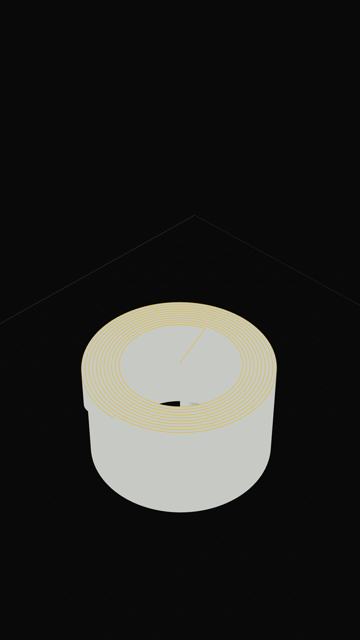
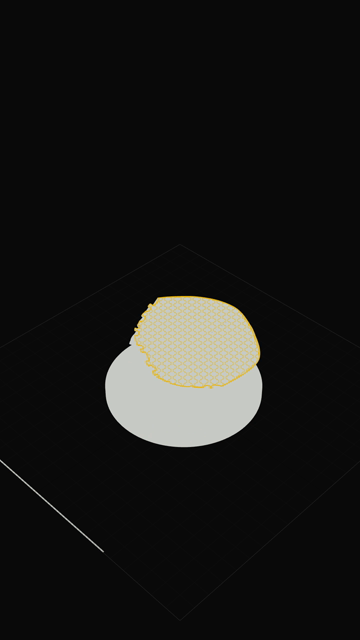
Fix five defects a real slicer file exposed
Three in the parser:

The layer count was two higher than the header claimed, because everything a
slicer emits before its first ;LAYER_CHANGE — the prime, the purge line, the
wipe — was being counted as layers of its own. That geometry is real and stays
in the IR; it now belongs to the first marked layer, so our count matches the
slicer's.

Print time came out as fourteen seconds instead of 3h 44m 46s: Orca writes
"estimated first layer printing time" immediately after the total, and the
second line was overwriting the first.

The bounding box described the bed rather than the model, because the purge
line runs the full width of the plate along the front edge. Size read
110 x 160 instead of 94 x 100, and the camera would have aimed at the bed
edge. The start block no longer contributes to the box.

Two in the renderer, both of which needed a centre-origin machine to appear:

The print stood in a corner of its own plate. The Flashforge puts 0,0 at the
middle of the bed and reports bed_origin = -110,-110; the renderer assumed a
front-left origin and ignored the field the parser was already filling in.

The print did not fit a 9:16 frame. Framing was computed from the vertical
field of view, but on a portrait canvas the horizontal one is much narrower
and is what actually binds. The camera now fits the bounding sphere against
whichever field of view is tighter, and re-fits when the aspect changes.
[…]

diff --git a/src/render/PrintScene.ts b/src/render/PrintScene.ts
@@ -66,6 +66,9 @@ const FRAGMENT_SHADER = /* glsl */ `
   }
 `;
 
+/** A little air around the print so it never touches the frame edge. */
+const FRAME_MARGIN = 1.12;
+
 export interface PrintSceneOptions {
   /** Device pixel ratio cap. Export overrides this to 1 and drives the size itself. */
   maxPixelRatio?: number;
@@ -90,6 +93,10 @@ export class PrintScene {
   /** Orbit state, kept here so export can set an exact camera without a controls dependency. */
   private orbit = { azimuth: Math.PI * 0.25, elevation: Math.PI * 0.22, distance: 400 };
   private target = new THREE.Vector3();
+  /** Radius of the sphere the framing has to keep on screen. Zero until a file is loaded. */
+  private frameRadius = 0;
+  /** True while the camera is auto-framed; a manual zoom hands control to the user. */
+  private autoFrame = true;
 
   constructor(canvas: HTMLCanvasElement, options: PrintSceneOptions = {}) {
     this.maxPixelRatio = options.maxPixelRatio ?? 2;
@@ -214,12 +221,20 @@ export class PrintScene {
   }
 
   zoomBy(factor: number): void {
+    this.autoFrame = false;
     this.orbit.distance = clamp(this.orbit.distance * factor, 20, 4000);
     this.applyCamera();
   }
 
+  /** Re-frame the print, undoing any manual zoom. */
+  frameAll(): void {
+    this.autoFrame = true;
+    this.fitCamera();
+  }
+
   /** Exact camera placement, for deterministic export and for saved viewpoints. */
   setCamera(azimuth: number, elevation: number, distance: number): void {
+    this.autoFrame = false;
     this.orbit = { azimuth, elevation, distance };
     this.applyCamera();
   }
@@ -237,15 +252,39 @@ export class PrintScene {
 
   private frameToPrint(ir: Ir): void {
     const b = ir.meta.bounds;
-    const bed = ir.meta.bedSize ?? [220, 220];
-    // Bounds are in G-code space (Z up); the root group rotates them into Y up.
+    const [ox, oy] = ir.meta.bedOrigin ?? [0, 0];
+    const [bw, bd] = ir.meta.bedSize ?? [220, 220];
+
+    // Bounds are in G-code space (Z up); the root group rotates them into Y up and shifts the
+    // bed's centre to the world origin, so the target has to make the same journey.
     const centreX = (b[0] + b[3]) / 2;
     const centreY = (b[1] + b[4]) / 2;
     const height = Math.max(b[5] - b[2], 1);
-    const footprint = Math.max(b[3] - b[0], b[4] - b[1], bed[0] * 0.5, 1);
 
-    this.target.set(centreX - bed[0] / 2, height / 2, -(centreY - bed[1] / 2));
-    this.orbit.distance = Math.max(footprint, height) * 2.4;
+    this.target.set(centreX - (ox + bw / 2), height / 2, -centreY + (oy + bd / 2));
+
+    // The radius that has to fit on screen: half the diagonal of the print's box, so no
+    // orbit angle can push a corner out of frame.
+    const dx = Math.max(b[3] - b[0], 1);
+    const dy = Math.max(b[4] - b[1], 1);
+    this.frameRadius = 0.5 * Math.sqrt(dx * dx + dy * dy + height * height);
+
+    this.autoFrame = true;
+    this.fitCamera();
+  }
+
+  /**
+   * Distance at which the print's bounding sphere fits, for the canvas as it is right now.
+   *
+   * A 9:16 canvas is the binding case: its horizontal field of view is far narrower than the
+   * vertical one Three.js is configured with, so framing on the vertical alone crops the print.
+   */
+  private fitCamera(): void {
+    if (this.frameRadius <= 0) return;
+    const vFov = (this.camera.fov * Math.PI) / 180;
+    const hFov = 2 * Math.atan(Math.tan(vFov / 2) * this.camera.aspect);
+    const tightest = Math.min(vFov, hFov);
+    this.orbit.distance = (this.frameRadius / Math.sin(tightest / 2)) * FRAME_MARGIN;
     this.applyCamera();
   }
 
@@ -269,8 +308,12 @@ export class PrintScene {
     outline.rotation.x = -Math.PI / 2;
     this.bed.add(outline);
 
-    // The print is modelled with 0,0 at the bed's front-left corner; the bed is centred.
-    this.root.position.set(-w / 2, 0, d / 2);
+    // The bed is drawn centred on the world origin, so the print is shifted by wherever the
+    // bed's own origin sits. Most printers put 0,0 at the front-left corner, but a
+    // centre-origin machine reports bed_origin = -w/2,-d/2 and would otherwise print into a
+    // corner of its own plate.
+    const [ox, oy] = ir.meta.bedOrigin ?? [0, 0];
+    this.root.position.set(-(ox + w / 2), 0, oy + d / 2);
   }
 
   // -- frame ----------------------------------------------------------------------------
@@ -280,6 +323,9 @@ export class PrintScene {
     this.renderer.setSize(width, height, false);
     this.camera.aspect = width / Math.max(height, 1);
     this.camera.updateProjectionMatrix();
+    // Switching from 16:9 to 9:16 changes which field of view is the binding one, so the
+    // framing distance has to be recomputed rather than carried over.
+    if (this.autoFrame) this.fitCamera();
   }
 
   render(): void {

diff --git a/crates/skipframe-gcode/src/parse.rs b/crates/skipframe-gcode/src/parse.rs
@@ -18,6 +18,9 @@ const ARC_TOLERANCE_MM: f32 = 0.02;
 const DEFAULT_FILAMENT_DIAMETER: f32 = 1.75;
 const DEFAULT_LAYER_HEIGHT: f32 = 0.2;
 
+/// Sentinel bounding box: min at +inf, max at -inf, so the first point sets both.
+const EMPTY_BOUNDS: [f32; 6] = [f32::MAX, f32::MAX, f32::MAX, f32::MIN, f32::MIN, f32::MIN];
+
 #[derive(Debug, Clone, Default)]
 pub struct ParseOptions {
     /// File name shown in the UI and stored in meta. Never a full path.
@@ -137,7 +140,7 @@ impl Parser {
             filament_grams: None,
             filament_mm: None,
             nozzle_diameter: None,
-            bounds: [f32::MAX, f32::MAX, f32::MAX, f32::MIN, f32::MIN, f32::MIN],
+            bounds: EMPTY_BOUNDS,
             saw_feature_marker: false,
             saw_declared_width: false,
             warnings: Vec::new(),
@@ -430,7 +433,24 @@ impl Parser {
         }
 
         if self.dialect.layer_marker(c).is_some() {
-            self.layer_source = LayerSource::Markers;
+            if self.layer_source != LayerSource::Markers {
+                // Everything emitted before the first layer marker is start G-code: priming, a
+                // purge line, a wipe. It is real geometry and it stays in the IR, but it is not
+                // a layer of the model. Folding it into the first marked layer is what keeps our
+                // layer count equal to the one the slicer printed in its own header.
+                self.layer_source = LayerSource::Markers;
+                self.ir.layer_start.clear();
+                self.ir.meta.layer_z.clear();
+                // The first marked layer owns the start block, so it begins at segment zero.
+                self.ir.layer_start.push(0);
+                self.ir.meta.layer_z.push(self.pos[2]);
+                self.layer_z_pending = true;
+                // A purge line runs the full width of the plate at the very front. It is real
+                // extruded material and it stays in the IR, but letting it define the bounding
+                // box would misreport the model's size and aim the camera at the bed edge.
+                self.bounds = EMPTY_BOUNDS;
+                return;
+            }
             self.start_layer(None);
             return;
         }
@@ -563,7 +583,11 @@ impl Parser {
                         self.filament_mm = Some(v as f64 * 1000.0);
                     }
                 } else if k.contains("estimated") && k.contains("time") {
-                    self.estimated_time_s = parse_duration(value);
+                    // Orca and PrusaSlicer follow the total with
+                    // "estimated first layer printing time", which must not overwrite it.
+                    if !k.contains("first layer") {
+                        self.estimated_time_s = parse_duration(value);
+                    }
                 }
             }
         }
@@ -1014,6 +1038,63 @@ mod tests {
     fn a_file_with_no_moves_is_an_error() {
         let mut cur = Cursor::new(b"; nothing here\nM104 S200\n".to_vec());
         assert!(parse_stream(&mut cur, &ParseOptions::default()).is_err());
+    }
+
+    #[test]
+    fn start_gcode_before_the_first_marker_is_not_a_layer() {
+        // Priming and a purge line at a rising Z, exactly as a real slicer's start block does,
+        // then two marked layers. The answer must be two layers, not four.
+        let src = "; generated by OrcaSlicer 2.4.2
+                   G90
+M83
+G28
+                   G1 X0 Y0 Z0.3 F9000
+                   G1 X60 Y0 E4 F1200
+                   G1 X60 Y0.4 Z0.2 F9000
+                   G1 X0 Y0.4 E4 F1200
+                   ;LAYER_CHANGE
+;Z:0.2
+;TYPE:External perimeter
+                   G1 X10 Y10 Z0.2 F9000
+G1 X20 Y10 E1
+                   ;LAYER_CHANGE
+;Z:0.4
+;TYPE:Perimeter
+                   G1 X10 Y10 Z0.4 F9000
+G1 X20 Y10 E1
+";
+        let ir = parse(src);
+        assert_eq!(ir.meta.layer_count, 2);
+        assert_eq!(ir.meta.layer_z, vec![0.2, 0.4]);
+        // The purge line is still in the IR; it just belongs to the first layer.
+        assert_eq!(ir.layer_start[0], 0);
+        assert_eq!(ir.layer_start.last(), Some(&ir.segment_count()));
+        assert!(ir.segment_count() > 4);
+
+        // The purge line spans x 0..60 at y 0; the model is a 10 mm line at x 10..20, y 10.
+        // The reported box must describe the model.
+        assert_eq!(ir.meta.bounds[0], 10.0, "min x");
+        assert_eq!(ir.meta.bounds[3], 20.0, "max x");
+        assert_eq!(ir.meta.bounds[1], 10.0, "min y");
+    }
+
+    #[test]
+    fn the_first_layer_time_does_not_overwrite_the_total() {
+        let src = "; generated by OrcaSlicer 2.4.2
+                   G90
+M83
+;LAYER_CHANGE
+;Z:0.2
+                   G1 X0 Y0 Z0.2
+G1 X10 E1
+                   ; estimated printing time (normal mode) = 3h 44m 46s
+                   ; estimated first layer printing time (normal mode) = 14s
+";
+        let ir = parse(src);
+        assert_eq!(
+            ir.meta.estimated_time_s,
+            Some(3.0 * 3600.0 + 44.0 * 60.0 + 46.0)
+        );
     }
 
     #[test]

diff --git a/docs/phase-0.md b/docs/phase-0.md
@@ -14,9 +14,34 @@ and (c) and prints every line to the terminal through the `bench_log` command. T
 runs in a plain browser tab at `http://localhost:1420/#bench`, where it falls back to a
 synthetic IR so it needs no fixture.
 
-## The test file
+## The test files
 
-There was no real 750 000-path file to hand, so the fixture is generated:
+### A real one
+
+`erglagalvabamboo_ABS_3h45m.gcode` — OrcaSlicer 2.4.2, Flashforge Adventurer 5M Pro, ABS,
+**24.2 MB, 568 layers, 785 067 segments** of which 753 874 extrude. It is not committed: it is
+someone's model, and the repository has no business carrying it.
+
+Finding the numbers was only half of what this file was worth. Running it turned up three real
+defects that the generated fixture could not have:
+
+1. **The layer count was 570, and the file's own header said 568.** Everything a slicer emits
+   before its first `;LAYER_CHANGE` — the prime, the purge line, the wipe — was being counted as
+   one or two layers of its own. That start-block geometry is real and stays in the IR, but it is
+   now folded into the first marked layer, so our count matches the slicer's.
+2. **Print time came out as 14 seconds instead of 3h 44m 46s.** Orca writes
+   `estimated first layer printing time` immediately after the total, and the second line was
+   overwriting the first.
+3. **The bounding box was the bed, not the model.** The purge line runs the full width of the
+   plate along the front edge, so the reported size was `110 x 160` instead of `94 x 100`, and
+   the camera would have framed the bed edge. The start block no longer contributes to the box.
+
+Each of those has a regression test now.
+
+### A generated one
+
+The real file arrived after the first round of measurements, which used a fixture built to the
+same shape:
 
 ```bash
 cargo run --release -p skipframe-gcode --bin sf-gcode -- \
@@ -46,11 +71,18 @@ Measured on the release binary, best of 5 runs, Windows 11, Ryzen-class laptop, 
 | Stress: feature marker every 20 paths, retract every 40 |   750 120 |        27.8 MB |     66.0 ms |       4.9 ms |   421 MB/s |
 | Scale: 2000 layers                                      | 3 000 000 |       107.2 MB |    245.5 ms |      17.3 ms |   437 MB/s |
 | `.gcode.3mf`, plate 1 of 2 (includes inflate)           |   750 120 | 17.9 MB zipped |     96.1 ms |            — |          — |
+| **Real: OrcaSlicer 2.4.2, ABS, Flashforge 5M Pro**      |   785 067 |        24.2 MB | **68.4 ms** |       4.2 ms |   353 MB/s |
 
 SHA-256 for the cache key costs 13.5 ms on the 25.6 MB file and 54 ms on the 107 MB one.
 
 **Verdict: pass, by roughly 30x.** Throughput is flat from 25 MB to 107 MB, so the streaming
-design holds and there is no file-size limit to defend.
+design holds and there is no file-size limit to defend. The real file lands 4 % slower per byte
+than the generated one, which is the cost of its denser comments and its arcs.
+
+On the real file the parser recovers: OrcaSlicer 2.4.2, 568 layers matching the header exactly,
+3h 44m 46s, 89.78 g of filament, and a 220 x 220 bed with its origin at -110,-110 read from
+`bed_shape` — the Flashforge Adventurer 5M Pro is not in our profile table, and the bed_shape
+fallback produced the right plate anyway, which is the behaviour that fallback exists for.
 
 Correctness checks that came free with the measurement: 570 layers found, 750 120 extruding
 segments plus exactly one travel per layer, Z range 0.2–114.0 mm, printer resolved from
@@ -62,10 +94,11 @@ the retract / travel / prime triplets produced exactly one travel segment each.
 Parsing is only part of what the user waits for. Full round trip from the front end —
 hash, parse, encode, write cache, hand 22.5 MB across IPC, wrap in TypedArrays:
 
-| Build                                       |  Round trip |
-| ------------------------------------------- | ----------: |
-| `tauri dev --release`                       |  **247 ms** |
-| `tauri dev` (debug shell, optimised parser) | 843–1070 ms |
+| Build                                       |     Round trip |
+| ------------------------------------------- | -------------: |
+| `tauri dev --release`, real file            | **292–294 ms** |
+| `tauri dev --release`, generated file       |         247 ms |
+| `tauri dev` (debug shell, optimised parser) |    843–1070 ms |
 
 The parser is compiled at `opt-level = 3` even in dev builds, so the gap between the two rows is
 the unoptimised shell and IPC layer, not parsing. 247 ms is what a user actually waits for on a
@@ -75,19 +108,29 @@ cold open of a 750 000-path file, cache miss included.
 
 ## (b) Render — must hold 60 fps while scrubbing
 
-570 frames, one per layer, sweeping the whole print. Canvas 1080x1920 at pixel ratio 1 — the
-export resolution, which is heavier than the on-screen viewport. Travels hidden. Measured inside
-the app's WebView2.
+568 frames, one per layer, sweeping the whole real print. Canvas 1080x1920 at pixel ratio 1 —
+the export resolution, which is heavier than the on-screen viewport. Travels hidden. Measured
+inside the app's WebView2.
 
 | Metric                                       | Value                                         |
 | -------------------------------------------- | --------------------------------------------- |
-| Frame interval                               | p50 **4.20 ms**, p95 4.30 ms, max 17.0 ms     |
+| Frame interval                               | p50 **4.20 ms**, p95 4.40 ms, max 5.50 ms     |
 | Frames within a 60 Hz budget                 | 100 %                                         |
-| Mean rate                                    | ~238 fps                                      |
+| Mean rate                                    | ~240 fps                                      |
 | `renderer.render()` CPU cost                 | p50 0.10 ms, p95 0.20 ms                      |
-| GPU time (`EXT_disjoint_timer_query_webgl2`) | p50 1.04 ms, p95 2.03 ms                      |
+| GPU time (`EXT_disjoint_timer_query_webgl2`) | p50 0.55 ms, p95 1.11 ms                      |
 | Draw calls per frame                         | 3 (print, bed grid, bed outline)              |
 | Context                                      | WebGL2, ANGLE / D3D11, NVIDIA RTX 5060 Laptop |
+
+The real file also found two defects in the renderer that a centred model on a corner-origin bed
+would never have shown:
+
+- **The print stood in a corner of its own plate.** The Flashforge puts 0,0 at the middle of the
+  bed and reports `bed_origin = -110,-110`. The renderer was assuming a front-left origin.
+- **The print did not fit the 9:16 frame.** Framing was computed from the vertical field of
+  view, but on a portrait canvas the horizontal one is far narrower and is what actually binds.
+  The camera now fits the print's bounding sphere against whichever field of view is tighter,
+  and re-fits when the aspect ratio changes.
 
 **Verdict: pass, by roughly 4x on the GPU and far more on the CPU.**
 
@@ -143,7 +186,7 @@ capture are all doing what they claim.
 | --------------------------------- | ---------------------------------- |
 | ![frame 60](phase0-frame-060.png) | ![frame 170](phase0-frame-170.png) |
 
-A 30-second Reel is 1800 frames, so this is roughly **7 seconds of export for 30 seconds of
+A 30-second Reel is 1800 frames, so this is roughly **6.5 seconds of export for 30 seconds of
 video**, with the renderer in the loop.
 
 **Verdict on Windows: pass.**
